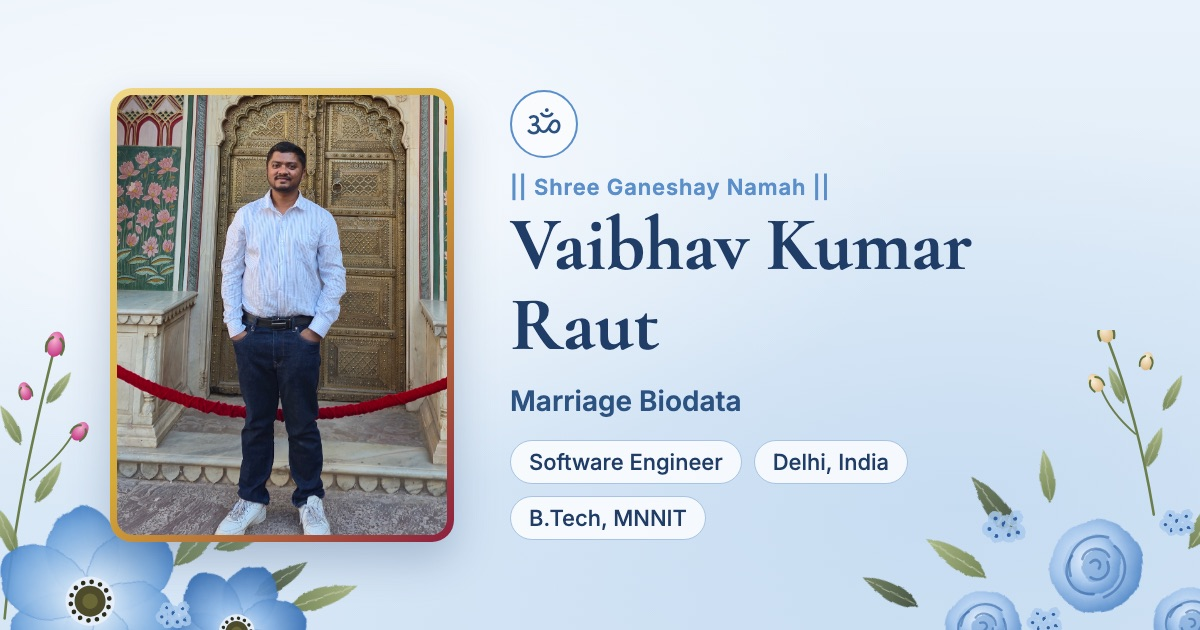
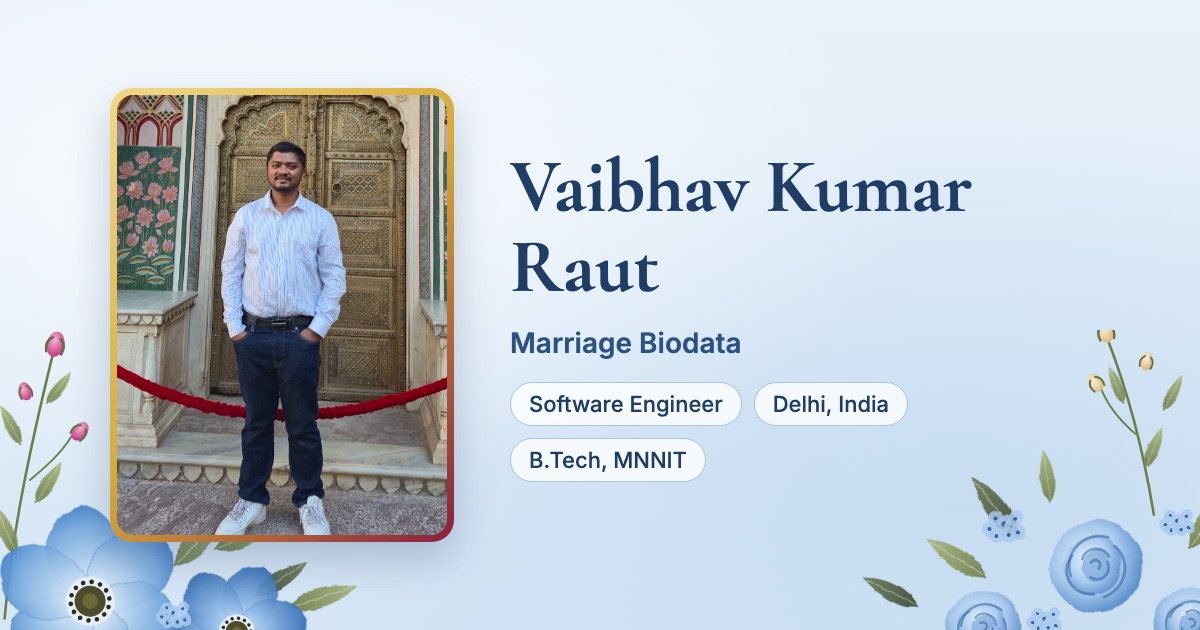
Remove tagline and name under photo, sync Hindi/Marathi
- Drop the Om symbol and "Shree Ganeshay Namah" line from the banner
  and the WhatsApp preview image
- Remove name and profession below the profile photo
- Update Hindi/Marathi height (5' 7") and family type (joint family)

diff --git a/src/components/Header.jsx b/src/components/Header.jsx
@@ -10,8 +10,6 @@ export default function Header({ data, t }) {
       <img className="hero-flowers hero-flowers-right" src={art('hero-flowers-right.svg')} alt="" />
 
       <div className="hero-inner">
-        <div className="motif" aria-hidden="true">ॐ</div>
-        <p className="tagline">{data.tagline}</p>
         <h1 className="title">{data.name}</h1>
         <div className="divider" aria-hidden="true"><span>✦</span></div>
         <Highlights data={data} t={t} />

diff --git a/src/App.jsx b/src/App.jsx
@@ -155,8 +155,6 @@ export default function App() {
               />
             </div>
           )}
-          <h2 className="profile-name">{data.name}</h2>
-          <p className="profile-sub">{data.career.profession}</p>
         </aside>
 
         <div className="details">
